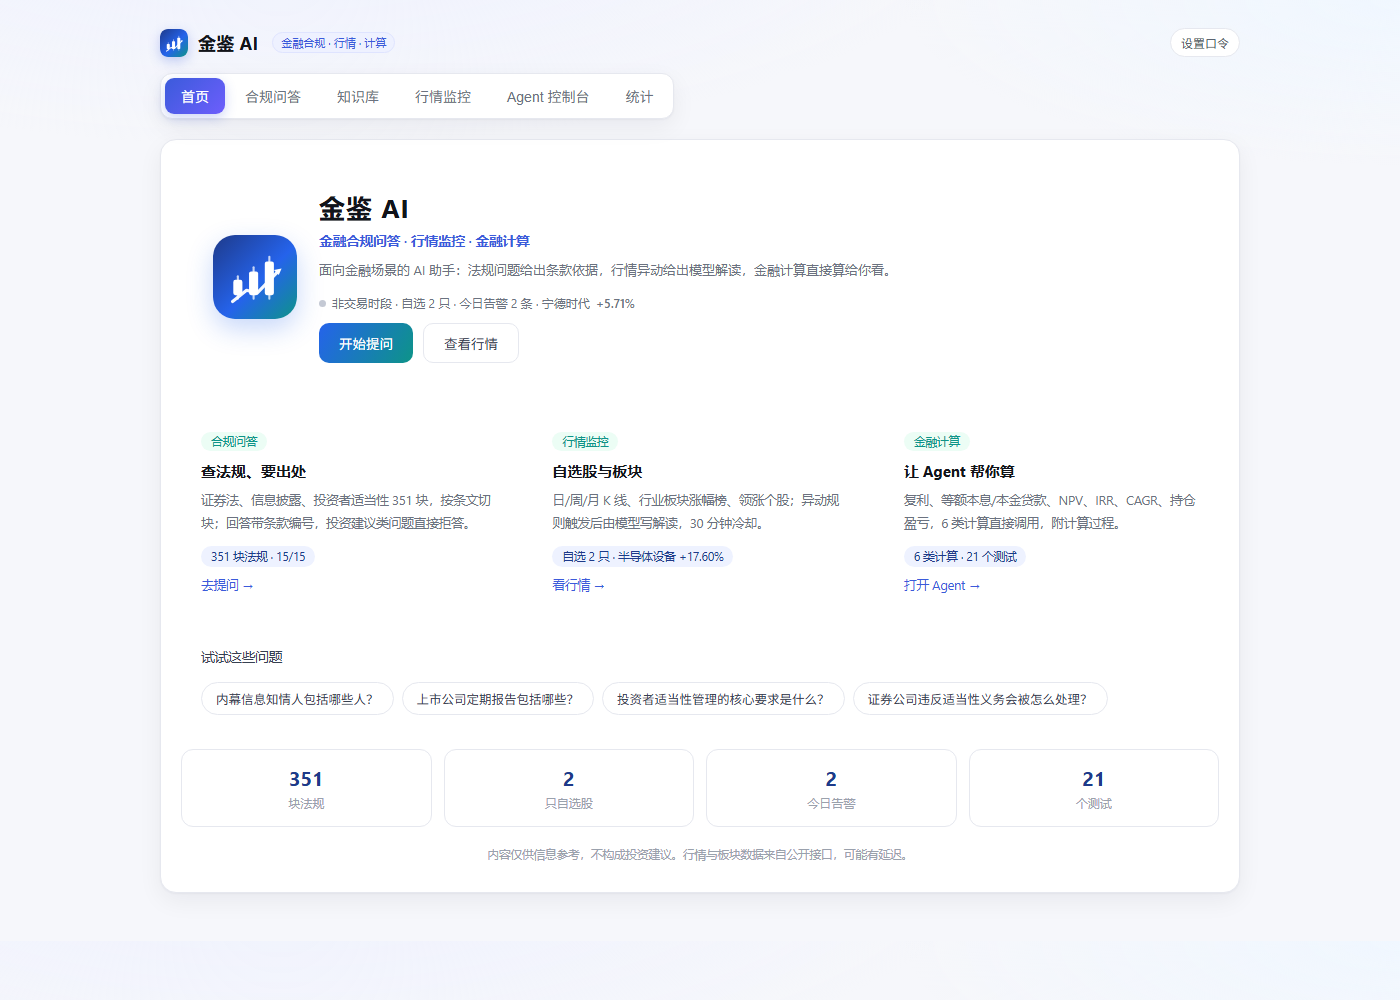
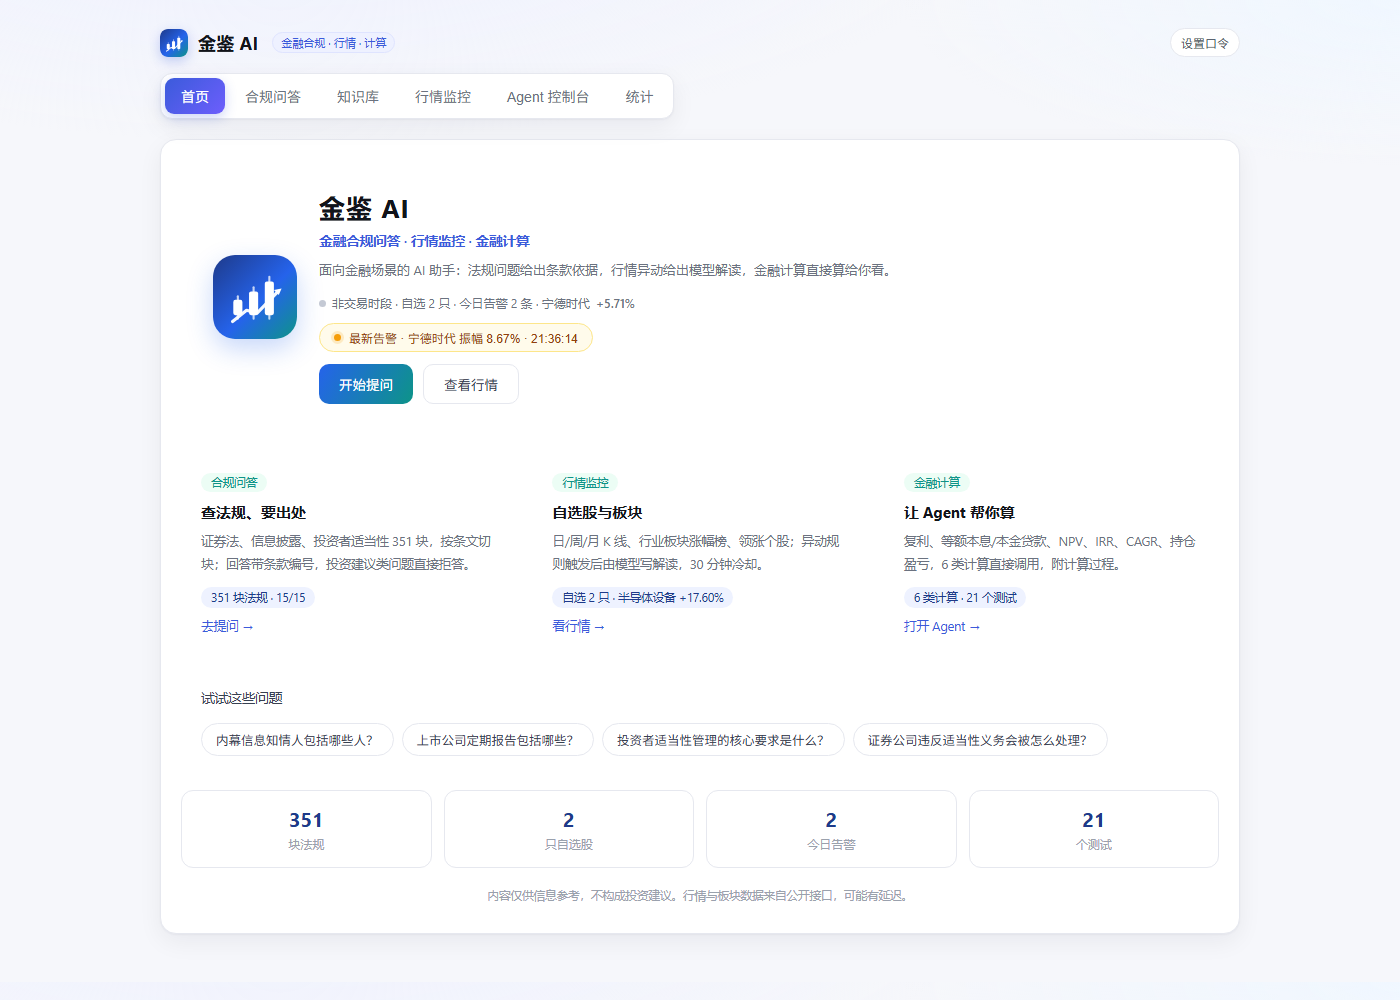
feat: 首页展示最新告警并支持跳转监控

diff --git a/frontend/src/views/HomeView.jsx b/frontend/src/views/HomeView.jsx
@@ -1,5 +1,5 @@
 import { useEffect, useState } from 'react'
-import { listKbs, listWatch, getSectors, getMonitorStatus } from '../api'
+import { listKbs, listWatch, getSectors, getMonitorStatus, listAlerts } from '../api'
 
 const FEATURES = [
   {
@@ -32,6 +32,11 @@ const QUESTIONS = [
   '证券公司违反适当性义务会被怎么处理？',
 ]
 
+function fmtTime(ts) {
+  if (!ts) return ''
+  return new Date(ts * 1000).toLocaleTimeString('zh-CN', { hour12: false })
+}
+
 function fmtPct(v) {
   if (v == null) return '-'
   return `${v >= 0 ? '+' : ''}${v.toFixed(2)}%`
@@ -43,8 +48,8 @@ export default function HomeView({ onNavigate, onAsk }) {
 
   useEffect(() => {
     let alive = true
-    Promise.all([listKbs(), getSectors(3), listWatch(), getMonitorStatus()])
-      .then(([kbs, sectors, watch, status]) => {
+    Promise.all([listKbs(), getSectors(3), listWatch(), getMonitorStatus(), listAlerts(1)])
+      .then(([kbs, sectors, watch, status, alerts]) => {
         if (!alive) return
         const finance = (kbs || []).find((k) => k.id === '金融合规')
         const movers = (watch || [])
@@ -56,6 +61,7 @@ export default function HomeView({ onNavigate, onAsk }) {
           watchCount: (watch || []).length,
           topMover: movers[0] || null,
           alerts: status?.alerts_today ?? 0,
+          latestAlert: (alerts || [])[0] || null,
           trading: !!status?.trading_hours,
         })
       })
@@ -103,6 +109,12 @@ export default function HomeView({ onNavigate, onAsk }) {
           )}
           {liveError && !live && (
             <div className="home-live muted">设置访问口令后显示实时数据</div>
+          )}
+          {live?.latestAlert && (
+            <button className="home-alert" onClick={() => onNavigate('monitor')}>
+              <span className="alert-dot" /> 最新告警 · {live.latestAlert.name}{' '}
+              {live.latestAlert.title} · {fmtTime(live.latestAlert.created_at)}
+            </button>
           )}
           <div className="home-actions">
             <button className="home-cta" onClick={() => onNavigate('ask')}>

diff --git a/frontend/src/styles.css b/frontend/src/styles.css
@@ -568,3 +568,10 @@ nav button.active {
   background: #eef2ff; border-radius: 999px; padding: 3px 10px; margin-bottom: 10px; }
 
 .home-card-action { display: block; margin-top: 8px; }
+
+.home-alert { display: inline-flex; align-items: center; gap: 8px; margin: 0 0 12px;
+  border: 1px solid #fde68a; background: #fffbeb; color: #92400e; border-radius: 999px;
+  padding: 5px 14px; font-size: 12px; cursor: pointer; }
+.home-alert:hover { background: #fef3c7; }
+.alert-dot { width: 7px; height: 7px; border-radius: 50%; background: #f59e0b;
+  box-shadow: 0 0 0 3px rgba(245, 158, 11, .18); }
